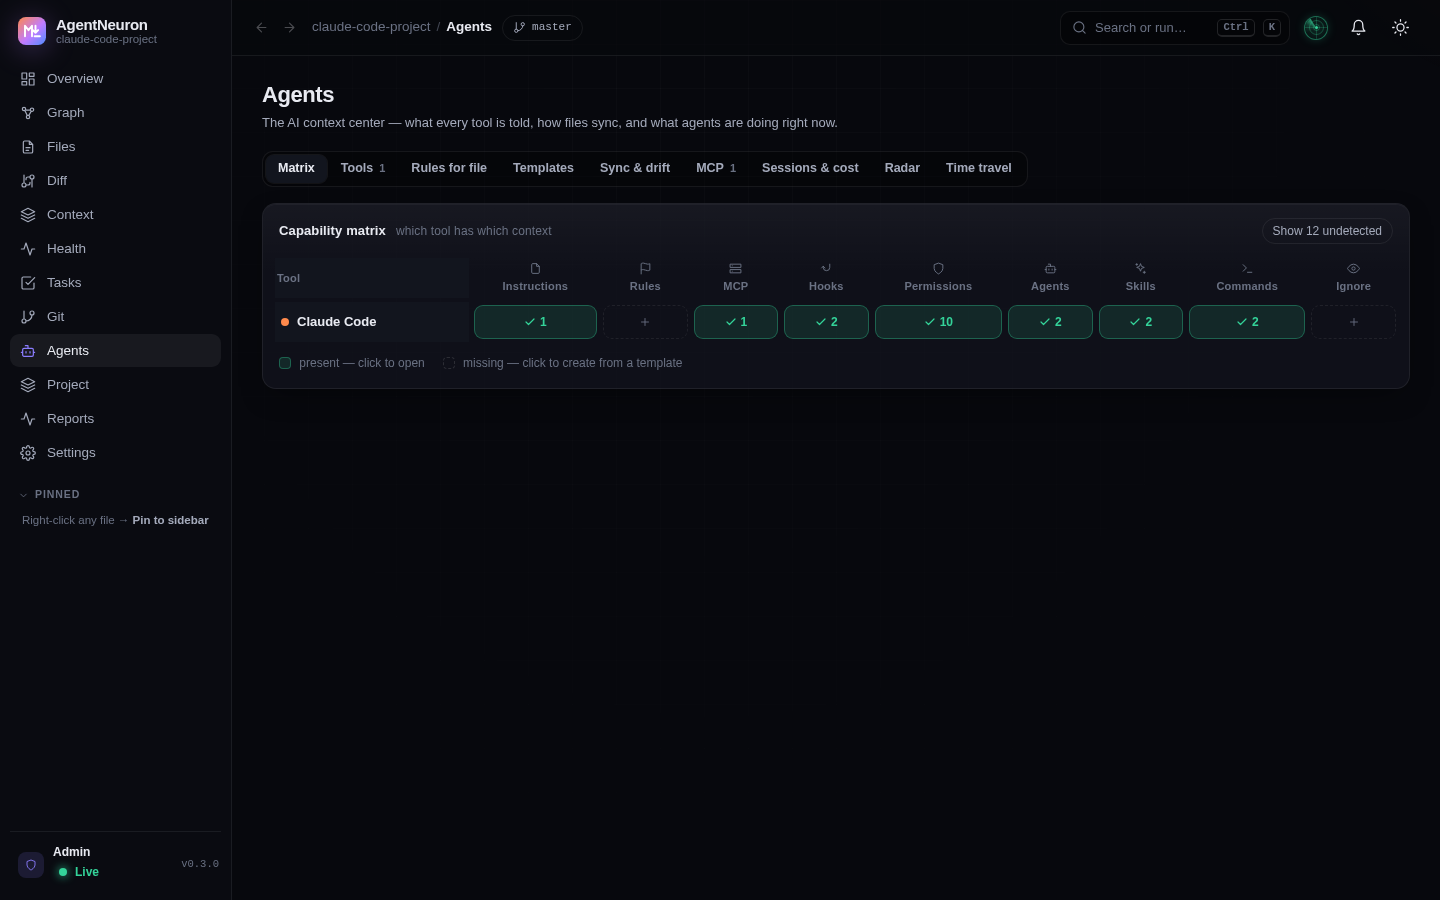
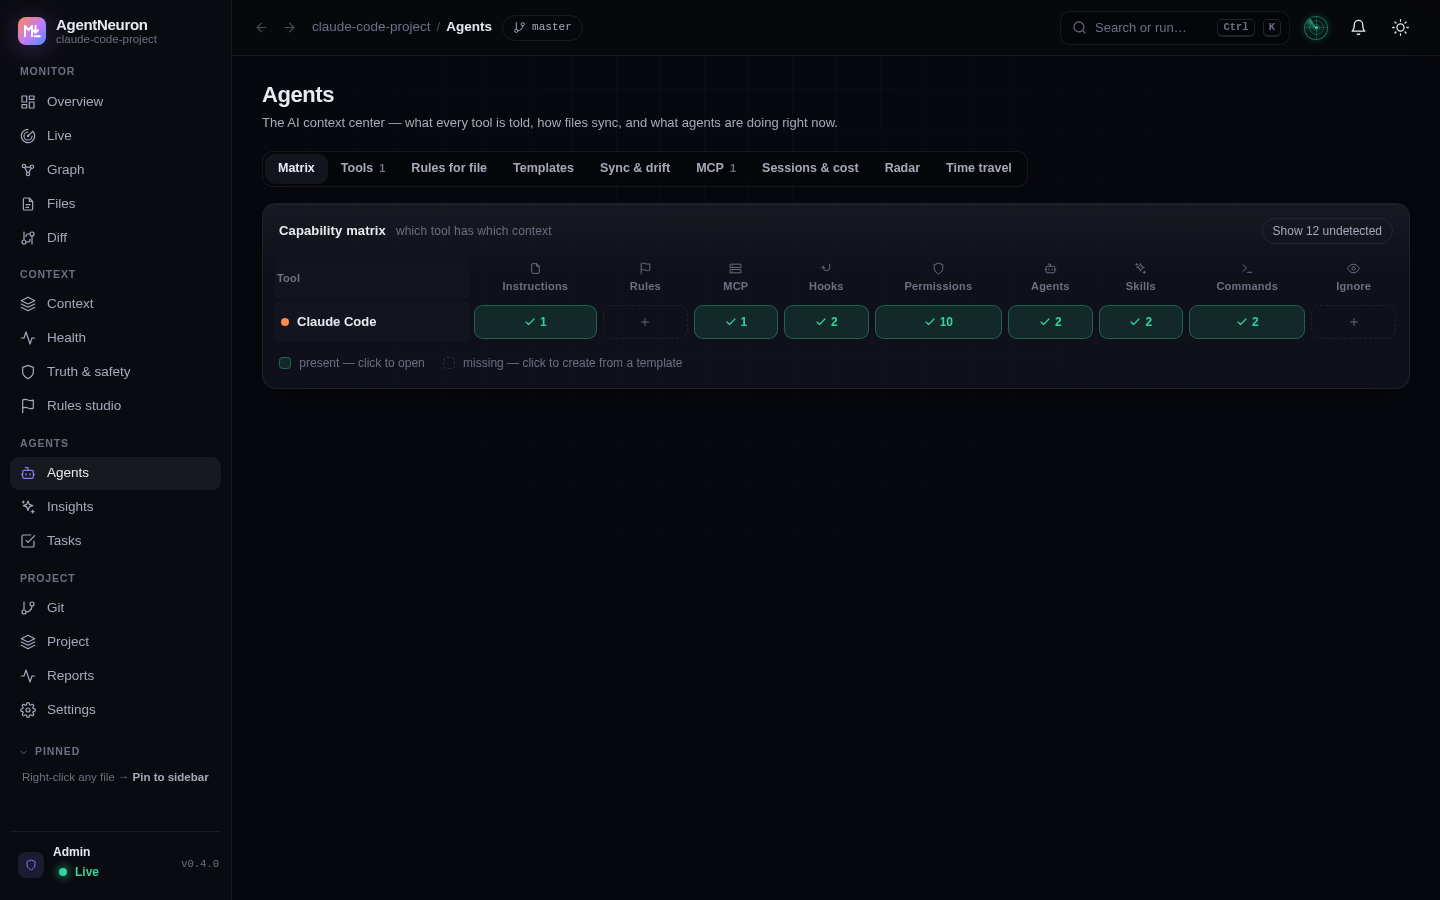
chore(release): 0.4.0
Live agent edits, coordination, truth check, security audit, context CI,
insights, rules studio and generate; grouped navigation; README, llms.txt,
npm description/keywords and screenshots for the new features.

diff --git a/ui/src/lib/nav.js b/ui/src/lib/nav.js
@@ -1,20 +1,20 @@
-// View registry: order defines the 1–9 keyboard shortcuts.
+// View registry: order defines the 1–9 keyboard shortcuts; `group` gives the sidebar sections.
 export const VIEWS = [
-  { id: 'overview', label: 'Overview', icon: 'overview' },
-  { id: 'live', label: 'Live', icon: 'radar' },
-  { id: 'graph', label: 'Graph', icon: 'graph' },
-  { id: 'files', label: 'Files', icon: 'files' },
-  { id: 'diff', label: 'Diff', icon: 'diff' },
-  { id: 'context', label: 'Context', icon: 'context' },
-  { id: 'health', label: 'Health', icon: 'health' },
-  { id: 'tasks', label: 'Tasks', icon: 'tasks' },
-  { id: 'git', label: 'Git', icon: 'git' },
-  { id: 'agents', label: 'Agents', icon: 'agents' },
-  { id: 'rules', label: 'Rules', icon: 'flag' },
-  { id: 'project', label: 'Project', icon: 'layers' },
-  { id: 'reports', label: 'Reports', icon: 'activity' },
-  { id: 'verify', label: 'Truth & safety', icon: 'shield' },
-  { id: 'insights', label: 'Insights', icon: 'sparkles' },
+  { id: 'overview', label: 'Overview', icon: 'overview', group: 'Monitor' },
+  { id: 'live', label: 'Live', icon: 'radar', group: 'Monitor' },
+  { id: 'graph', label: 'Graph', icon: 'graph', group: 'Monitor' },
+  { id: 'files', label: 'Files', icon: 'files', group: 'Monitor' },
+  { id: 'diff', label: 'Diff', icon: 'diff', group: 'Monitor' },
+  { id: 'context', label: 'Context', icon: 'context', group: 'Context' },
+  { id: 'health', label: 'Health', icon: 'health', group: 'Context' },
+  { id: 'verify', label: 'Truth & safety', icon: 'shield', group: 'Context' },
+  { id: 'rules', label: 'Rules studio', icon: 'flag', group: 'Context' },
+  { id: 'agents', label: 'Agents', icon: 'agents', group: 'Agents' },
+  { id: 'insights', label: 'Insights', icon: 'sparkles', group: 'Agents' },
+  { id: 'tasks', label: 'Tasks', icon: 'tasks', group: 'Agents' },
+  { id: 'git', label: 'Git', icon: 'git', group: 'Project' },
+  { id: 'project', label: 'Project', icon: 'layers', group: 'Project' },
+  { id: 'reports', label: 'Reports', icon: 'activity', group: 'Project' },
   { id: 'settings', label: 'Settings', icon: 'settings' },
 ];
 

diff --git a/ui/src/lib/Sidebar.svelte b/ui/src/lib/Sidebar.svelte
@@ -45,6 +45,7 @@
   <div class="scroll">
     <ul class="nav">
       {#each VIEWS as v, i (v.id)}
+        {#if v.group && v.group !== VIEWS[i - 1]?.group}<li class="sec" aria-hidden="true">{v.group}</li>{/if}
         <li class:sm-hide={v.id === 'settings'}>
           <a class="item" class:on={app.route.view === v.id} href={href(v.id)} aria-current={app.route.view === v.id ? 'page' : undefined} title="{v.label}{i < 9 ? ` (${i + 1})` : ''}">
             <Icon name={v.icon} size={16} />
@@ -144,6 +145,8 @@
   .sub { font-size: 11.5px; font-weight: 500; color: var(--text-3); letter-spacing: 0; overflow: hidden; text-overflow: ellipsis; white-space: nowrap; max-width: 150px; }
   .scroll { flex: 1; min-height: 0; overflow-y: auto; overflow-x: hidden; margin: 0 -4px; padding: 0 4px; display: flex; flex-direction: column; gap: 14px; }
   .nav { list-style: none; margin: 0; padding: 0; display: flex; flex-direction: column; gap: 1px; }
+  .nav .sec { margin: 12px 0 4px; padding: 0 10px; font-size: 10.5px; font-weight: 600; letter-spacing: 0.08em; text-transform: uppercase; color: var(--text-3); }
+  .nav .sec:first-child { margin-top: 2px; }
   .item {
     position: relative;
     display: flex;
@@ -199,6 +202,7 @@
     .brand, .foot, .grp { display: none; }
     .scroll { margin: 0; padding: 0; overflow-x: auto; overflow-y: hidden; scrollbar-width: none; flex-direction: row; }
     .nav { flex-direction: row; gap: 0; }
+    .nav .sec { display: none; }
     .nav li { flex: 1 0 auto; }
     .item { flex-direction: column; gap: 3px; height: 50px; padding: 6px 8px; font-size: 10px; justify-content: center; min-width: 58px; }
     .item.on { background: transparent; }

diff --git a/ui/src/mock.js b/ui/src/mock.js
@@ -1038,7 +1038,7 @@ export function createMock() {
     '/api/state': () => {
       const h = health();
       return {
-        project: PROJECT, version: '0.3.0-mock', startedAt, allowWrite: can('edit'), actions: clone(config.actions), counts: counts(),
+        project: PROJECT, version: '0.4.0-mock', startedAt, allowWrite: can('edit'), actions: clone(config.actions), counts: counts(),
         health: { score: h.score, grade: h.grade, counts: h.counts },
         git: { available: true, branch: currentBranch, dirty: [...db.values()].filter((f) => f.gitStatus).length },
       };
@@ -1116,7 +1116,7 @@ export function createMock() {
       roles: { you: role, tokenRequired, adminToken: tokenRequired, viewerToken: tokenRequired },
       notifications: { browser: true, webhooks: [{ url: 'https://hooks.slack.com/services/T0***/B0***/***', events: ['secret', 'conflict', 'job-failed'] }, { url: 'https://discord.com/api/webhooks/12***/***', events: ['health-drop'] }] },
       paths: { root: PROJECT.root, data: '.agentneuron', config: '.agentneuron/config.json', audit: '.agentneuron/audit.jsonl', events: '.agentneuron/events.jsonl', metrics: '.agentneuron/metrics.jsonl' },
-      version: '0.3.0-mock',
+      version: '0.4.0-mock',
       howToEnable: 'Actions beyond read are OFF by default. Enable them in .agentneuron/config.json, e.g. {"actions":{"edit":true,"exec":true}}, or start agentneuron with --enable edit,exec[,danger,terminal]. Use --admin-token to separate admin from read-only viewers.',
     }),
 

diff --git a/README.md b/README.md
@@ -1,6 +1,6 @@
 # AgentNeuron
 
-**AgentNeuron is an open-source, local control center for AI coding-agent context files.** It scans, lints and live-monitors `CLAUDE.md`, `AGENTS.md`, `GEMINI.md`, Cursor rules, GitHub Copilot instructions, Windsurf rules, skills, subagents and MCP configs, and shows them in a web dashboard, a CLI and an MCP server.
+**AgentNeuron is an open-source, local control center for AI coding-agent context files.** It shows what Claude Code, Codex and other agents are editing in real time, checks that `CLAUDE.md`, `AGENTS.md`, `GEMINI.md`, Cursor rules, Copilot instructions, Windsurf rules, skills and MCP configs are still true and safe, learns rules from your agent sessions, and keeps every tool's rules in sync, in a web dashboard, a CLI and an MCP server.
 
 [![npm version](https://img.shields.io/npm/v/agentneuron)](https://www.npmjs.com/package/agentneuron)
 [![npm downloads](https://img.shields.io/npm/dm/agentneuron)](https://www.npmjs.com/package/agentneuron)
@@ -12,7 +12,7 @@
 npx agentneuron            # then open http://127.0.0.1:4747
 ```
 
-![AgentNeuron overview dashboard: health grade, context token budget, AI tools detected in the project and a live change feed](https://raw.githubusercontent.com/TurjoAt/agentneuron/main/docs/assets/overview.png)
+![AgentNeuron overview dashboard: KPIs, the Neuron brain graph of context files, live agents, truth and safety summary and context health](https://raw.githubusercontent.com/TurjoAt/agentneuron/main/docs/assets/overview.png)
 
 ## What is AgentNeuron?
 
@@ -29,6 +29,20 @@ AI tools read a growing pile of instruction files, and nobody checks them. Links
 - **Works across tools:** one view of 13 AI coding tools instead of one config format at a time.
 
 ## Features
+
+**Watch agents work, live**
+- [Live view](docs/live.md): every file Claude Code, Codex and other agents edit, as it happens, in one lane per agent, with diffs, "now editing" chips, a heat strip and collision warnings when two sessions touch the same file.
+- [Coordination](docs/coordination.md) over MCP: agents claim tasks and files (advisory locks) and leave handoff notes for the next session.
+
+**Check that context is true and safe**
+- [Truth check](docs/verify.md): finds instructions that are no longer true (commands, scripts, paths, versions, ports, env vars) against the real repo and suggests the fix.
+- [Security audit](docs/audit.md) of agent config: unpinned MCP servers, inline tokens, `Bash(*)`, bypass modes, risky hooks, with a 0 to 100 risk score.
+- [Context CI](docs/ci.md): `agentneuron ci` and a GitHub Action that annotate pull requests, with `--base` to report only new problems.
+
+**Learn from your sessions**
+- [Insights](docs/insights.md): corrections, reverted edits and repeatedly failing commands in Claude/Codex sessions become proposed rules you accept with one click.
+- Rule effectiveness: which rules agents follow, ignore or never need, and a "context diet" with token savings.
+- Replay: the exact context an agent had when it made a change. Cost by feature: agent tokens and cost per task or branch.
 
 **Monitor**
 - Live file watcher with a change feed, per-file version history and diffs.
@@ -56,7 +70,7 @@ AI tools read a growing pile of instruction files, and nobody checks them. Links
 - Git stage/commit/branch, package and script runner. Commands are spawned without a shell, stream live output and are written to an audit log.
 
 **Integrate**
-- [MCP server](docs/mcp.md) (`agentneuron mcp`) with 11 read-only tools, so your AI agents can query the same data.
+- [MCP server](docs/mcp.md) (`agentneuron mcp`) with 16 read-only tools, plus 4 opt-in coordination tools, so your AI agents can query the same data.
 - HTTP + Server-Sent Events [API](docs/http-api.md).
 - `agentneuron lint --json` for CI ([example workflow](examples/ci/)).
 - Slack/Discord-compatible webhooks for secrets, conflicts, health drops and job results.
@@ -66,6 +80,10 @@ AI tools read a growing pile of instruction files, and nobody checks them. Links
 
 | | |
 |---|---|
+| ![Live view: Claude, Codex and Cursor sessions in swimlanes with streaming file edits, line counts, a heat strip of touched files and a collision warning](https://raw.githubusercontent.com/TurjoAt/agentneuron/main/docs/assets/live.png) | ![Overview dashboard with KPIs, the animated Neuron brain orbit graph, live agents, truth and safety summary and context health](https://raw.githubusercontent.com/TurjoAt/agentneuron/main/docs/assets/overview.png) |
+| **Live:** what each agent is editing right now | **Overview:** Neuron brain, live agents, health and tasks |
+| ![Truth check listing false commands and paths in CLAUDE.md with the evidence and a one-click fix](https://raw.githubusercontent.com/TurjoAt/agentneuron/main/docs/assets/verify.png) | ![Insights: lessons mined from agent sessions as proposed rules with evidence quotes and confidence](https://raw.githubusercontent.com/TurjoAt/agentneuron/main/docs/assets/insights.png) |
+| **Truth & safety:** instructions that are no longer true | **Insights:** rules learned from your sessions |
 | ![Link graph of CLAUDE.md, skills, subagents and docs grouped by role in AgentNeuron's neural layout](https://raw.githubusercontent.com/TurjoAt/agentneuron/main/docs/assets/graph.png) | ![Tasks board built from Markdown checkboxes in TODO.md, with labels, due dates and links to the source line](https://raw.githubusercontent.com/TurjoAt/agentneuron/main/docs/assets/tasks.png) |
 | **Graph:** how context files link to and import each other | **Tasks:** checkboxes and `TODO:` comments as a board, table, calendar or timeline |
 | ![Reports page with KPIs, activity over time, heatmap and top files by changes, links and tokens](https://raw.githubusercontent.com/TurjoAt/agentneuron/main/docs/assets/reports.png) | ![Agents center with a matrix of AI coding tools against capabilities such as instructions, rules, MCP, hooks and skills](https://raw.githubusercontent.com/TurjoAt/agentneuron/main/docs/assets/agents.png) |
@@ -139,7 +157,7 @@ Any other Markdown in the project (README, TODO, ROADMAP, ADRs, `docs/`) is trac
 
 ## Use it from your AI agent (MCP)
 
-`agentneuron mcp` is a read-only MCP server on stdio. Its tools: `project_info`, `list_files`, `read_file`, `search`, `get_health`, `get_context`, `recent_changes`, `get_tasks`, `get_links`, `report_export`. Full reference: [docs/mcp.md](docs/mcp.md).
+`agentneuron mcp` is a read-only MCP server on stdio. Its tools: `project_info`, `list_files`, `read_file`, `search`, `get_health`, `get_context`, `recent_changes`, `get_tasks`, `get_links`, `report_export`, `verify_context`, `audit_agent_config`, `suggest_rules`, `compile_preview`, `list_claims`, `get_handoffs`. With `--level state`, agents can also `claim_task`, `claim_files`, `release_files` and write a `handoff_note`. Full reference: [docs/mcp.md](docs/mcp.md).
 
 **Claude Code** (CLI, or `.mcp.json` at the project root):
 
@@ -196,8 +214,16 @@ Read [docs/permissions-and-security.md](docs/permissions-and-security.md) before
 | `agentneuron lint [--json] [dir]` | Print issues; exit 1 on errors |
 | `agentneuron status [dir]` | Files, tokens and health summary |
 | `agentneuron init [dir]` | Create `.agentneuron/` with config and a copy of the bundle |
+| `agentneuron verify [dir]` | Truth check: false commands, paths and versions in context files |
+| `agentneuron audit [dir]` | Security audit of MCP servers, permissions and hooks |
+| `agentneuron ci [dir]` | Lint + verify + audit for pull requests (GitHub annotations) |
+| `agentneuron lessons [dir]` | Rules to learn from your Claude/Codex sessions |
+| `agentneuron compile [dir]` | Compile `.agentneuron/rules/` into every tool's files |
+| `agentneuron generate [dir]` | Starter AGENTS.md/CLAUDE.md from the code, every line cited |
+| `agentneuron export [dir]` | Report as an AI context pack, JSON, Markdown, CSV or HTML |
+| `agentneuron doctor` / `update` | Check the setup / update to the latest release |
 
-Flags, exit codes and newer commands (`update`, `doctor`, `export`) are in the [CLI reference](docs/cli.md).
+Every flag and exit code is in the [CLI reference](docs/cli.md).
 
 ## FAQ
 
@@ -219,15 +245,19 @@ Not by default. It writes only inside `.agentneuron/`. Editing files and running
 
 ### How do I lint CLAUDE.md or AGENTS.md in CI?
 
-Run `npx agentneuron lint --json`. It exits with code 1 when any error-level issue is found. A GitHub Actions workflow is in [examples/ci](examples/ci/).
+Use the GitHub Action (`uses: TurjoAt/agentneuron@v0.4.0`) or run `npx agentneuron ci`. It runs lint, the truth check and the security audit, annotates the pull request, and with `--base` reports only problems the change introduced. See [docs/ci.md](docs/ci.md) and [examples/ci](examples/ci/).
 
 ### How do I keep CLAUDE.md, AGENTS.md and Cursor rules in sync?
 
-Open **Agents > Sync & drift**. It compares the root instruction files of each tool pairwise and labels each pair `identical`, `linked`, `similar`, `drifted` or `diverged`. With `edit` enabled you can copy one file into the others, or replace them with a short file that `@imports` a single source.
+Write each rule once in `.agentneuron/rules/` and run `agentneuron compile`: it generates CLAUDE.md, AGENTS.md, GEMINI.md, Cursor, Copilot and Windsurf rules, keeps your hand-written text, and `--check` fails CI when they are out of date ([docs/compiler.md](docs/compiler.md)). To compare existing files instead, open **Agents > Sync & drift**. It compares the root instruction files of each tool pairwise and labels each pair `identical`, `linked`, `similar`, `drifted` or `diverged`. With `edit` enabled you can copy one file into the others, or replace them with a short file that `@imports` a single source.
 
 ### Can my AI agent use AgentNeuron?
 
-Yes, through the read-only MCP server (`agentneuron mcp`). An agent can ask for the effective context of a folder, broken links, health issues, recent changes or open tasks.
+Yes, through the MCP server (`agentneuron mcp`). An agent can ask for the effective context of a folder, broken links, false instructions, open tasks or lessons from past sessions, and (with `--level state`) claim files and leave handoff notes for other agents.
+
+### Can I see what Claude Code or Codex is editing right now?
+
+Yes. Open **Live**: AgentNeuron tails the Claude Code and Codex session transcripts for the project and shows each edit as it happens, checked against the file watcher, with diffs and collision warnings. Prompts are shown to admins only. See [docs/live.md](docs/live.md).
 
 More answers: [docs/faq.md](docs/faq.md).
 

diff --git a/CHANGELOG.md b/CHANGELOG.md
@@ -4,7 +4,35 @@ All notable changes to this project are documented here. The format follows [Kee
 
 ## [Unreleased]
 
+## [0.4.0] - 2026-10-25
+
+From watching context to keeping it true. Includes everything prepared for 0.3.0 below, which was not published separately.
+
+### Added
+
+- **Live view** (`#/live`): files Claude Code, Codex and other agents edit in real time, from their session transcripts, confirmed by the file watcher. One lane per agent, streaming diffs, "now editing" chips, a heat strip, filters and collision warnings when two sessions touch the same file. New SSE events `agent.session`, `agent.edit`, `agent.command`, `agent.collision`; the Overview, Neuron brain and radar show agent activity in agent colours.
+- **Multi-agent coordination**: advisory file claims with TTL, task claims and handoff notes over HTTP and MCP (`claim_task`, `claim_files`, `release_files`, `handoff_note` at `--level state`; `list_claims`, `get_handoffs` read-only), shown on board cards and in Live.
+- **Truth check** (`agentneuron verify`, `/api/verify`, MCP `verify_context`, new lint rule `false-claim`): commands, scripts, paths, versions, competing libraries, env vars and ports claimed in context files, checked against package.json, lockfiles, Makefile, composer, pyproject and the file tree, with suggested fixes (apply at `edit` level).
+- **Security audit** (`agentneuron audit`, `/api/audit/config`, MCP `audit_agent_config`): unpinned or `@latest` MCP servers, plain-http servers, inline tokens, `Bash(*)` and bypass modes, Codex full access, risky hooks, world-writable files and secrets, with a 0 to 100 risk score.
+- **Context CI** (`agentneuron ci`) with GitHub annotations, a job summary, `--base` to report only new problems, and a composite GitHub Action (`uses: TurjoAt/agentneuron@v0.4.0`).
+- **Insights** (`#/insights`, `agentneuron lessons`, MCP `suggest_rules`): lessons from user corrections, reverted edits, repeatedly failing commands and repeated instructions, as proposed rules with evidence; rule effectiveness and a context diet; "why did the agent do that?" replay; cost by feature.
+- **Rules studio** (`#/rules`, `agentneuron compile`, `agentneuron rules import|list`, MCP `compile_preview`): write rules once in `.agentneuron/rules/` and compile them into CLAUDE.md, AGENTS.md, GEMINI.md, Cursor, Copilot and Windsurf files, keeping hand-written text, with `--check` for CI and merge-back of hand edits.
+- **Generate** (`agentneuron generate`): a starter AGENTS.md/CLAUDE.md from the code, every line cited.
+- `examples/drifted-project` for the truth check and audit.
+
+### Changed
+
+- The sidebar is grouped into Monitor, Context, Agents and Project. Keyboard shortcuts 1 to 9 follow the new order (Overview, Live, Graph, Files, Diff, Context, Health, Truth & safety, Rules studio).
+- Valued CLI flags no longer swallow a following `--flag`.
+
+### Security
+
+- File events show the attributed agent's prompt and session title to admins only; viewers get the tool and session id.
+- Live prompts and diffs follow `live.showPrompts`, `live.viewerPrompts` and `live.viewerDiffs` (prompts off for viewers and for non-loopback binds by default).
+
 ## [0.3.0] - 2026-10-25
+
+Not published separately; first released as part of 0.4.0.
 
 ### Added
 
@@ -101,8 +129,9 @@ Initial release, developed as `mdctl`: a live monitor for AI-context Markdown.
 - Agent session discovery and a concurrent-edit conflict radar.
 - Server-Sent Events live updates, text search, token authentication, `init` and `status` commands.
 
-[Unreleased]: https://github.com/TurjoAt/agentneuron/compare/v0.3.0...HEAD
-[0.3.0]: https://github.com/TurjoAt/agentneuron/compare/v0.2.1...v0.3.0
+[Unreleased]: https://github.com/TurjoAt/agentneuron/compare/v0.4.0...HEAD
+[0.4.0]: https://github.com/TurjoAt/agentneuron/compare/v0.2.1...v0.4.0
+[0.3.0]: https://github.com/TurjoAt/agentneuron/compare/v0.2.1...v0.4.0
 [0.2.1]: https://github.com/TurjoAt/agentneuron/compare/v0.2.0...v0.2.1
 [0.2.0]: https://github.com/TurjoAt/agentneuron/compare/v0.1.0...v0.2.0
 [0.1.0]: https://github.com/TurjoAt/agentneuron/releases/tag/v0.1.0

diff --git a/docs/cli.md b/docs/cli.md
@@ -152,7 +152,7 @@ Print a starter context file built from the code: commands, stack, layout and co
 Check the environment and print one line per check (`✓` ok, `!` warning, `✗` failure). Exit code `1` if any check fails.
 
 ```
-agentneuron 0.3.0 doctor - /path/to/project
+agentneuron 0.4.0 doctor - /path/to/project
   ✓ node         Node 22.11.0 (requires >= 18)
   ✓ git          git version 2.43.0, project is a git repository
   ✓ config       .agentneuron/config.json is valid

diff --git a/docs/getting-started.md b/docs/getting-started.md
@@ -18,7 +18,7 @@ npx agentneuron ./my-project     # a specific directory
 The banner shows the URL, number of tracked files, and which action levels are enabled:
 
 ```
-  AgentNeuron 0.3.0  -  AI context control center
+  AgentNeuron 0.4.0  -  AI context control center
   project : /home/me/my-project
   files   : 42
   open    : http://127.0.0.1:4747/
